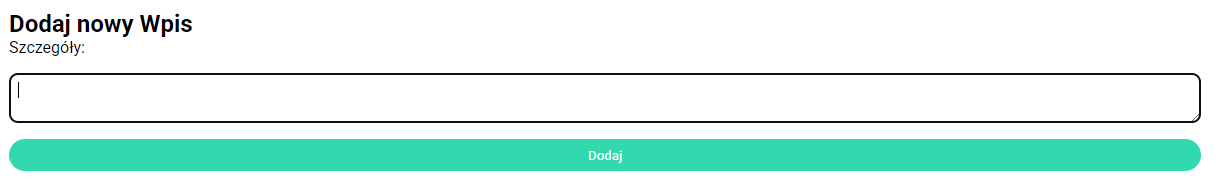
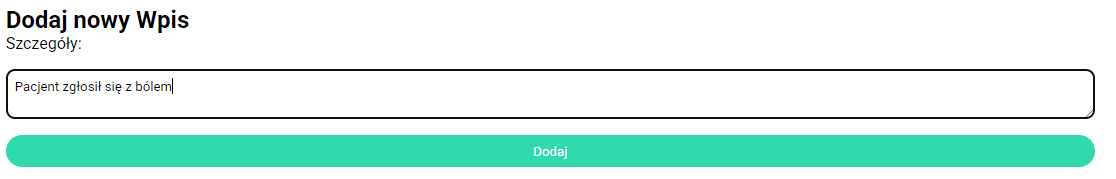
dokumentacjav2

diff --git a/README.md b/README.md
@@ -20,16 +20,17 @@
     - [Użytkownik](#użytkownik-1)
     - [Personel](#personel-1)
   - [Wpisy](#wpisy)
+    - [Użytkownik](#użytkownik-2)
+    - [Personel](#personel-2)
   - [Recepty](#recepty)
+    - [Użytkownik](#użytkownik-3)
+    - [Personel](#personel-3)
   - [Skierowania](#skierowania)
+    - [Użytkownik](#użytkownik-4)
+    - [Personel](#personel-4)
   - [Wyniki badań](#wyniki-badań)
-- [Specyfikacja programu pracownika](#specyfikacja-programu-pracownika)
-  - [Panel główny pracownika](#panel-główny-pracownika)
-  - [Wpisy](#wpisy-1)
-  - [Recepty](#recepty-1)
-    - [Skierowania](#skierowania-1)
-    - [Wyniki badań](#wyniki-badań-1)
-    - [Wpisy pracownik](#wpisy-pracownik)
+    - [Użytkownik](#użytkownik-5)
+    - [Personel](#personel-5)
 
  # Wprowadzenie
 
@@ -107,61 +108,65 @@ Po zalogowaniu użytkownik zobaczy panel główny, w którym znajdują się pola
 Screenshots
 
 ### Personel 
-Po zalogowaniu się pracownik zobaczy taki sam panel główny jak użytkownik. Jedynym wyjątkiem jest możliwość dodawania i usuwania wpisu, recepty lub skierowania.
+Po zalogowaniu się pracownik zobaczy taki sam panel główny jak użytkownik. Jedynym wyjątkiem jest możliwość dodawania i edytowanie wpisu, recepty lub skierowania.
 
 
 Screenshots
 
 ## Wpisy
+### Użytkownik 
 W zakładce "Wpisy" po lewej stronie użytkownik widzi pełną listę wpisów, wraz z ich numerem, datą wystawienia oraz imieniem i nazwiskiem lekarza, który je wystawił. Po kliknięciu na wybrany wpis użytkownik ma pełny podgląd tego wpisu po prawej stronie.
 
 Screenshots
 
+### Personel
+W zakładce "Wpisy" po lewej stronie użytkownik widzi pełną listę wpisów, wraz z ich numerem, datą wystawienia oraz imieniem i nazwiskiem lekarza, który je wystawił. Po kliknięciu na wybrany wpis użytkownik ma pełny podgląd tego wpisu po prawej stronie.
+
+Screenshots
+
+Zakładka "Wpisy" dla pracownika różni się od zakładki użytkownika jedynie tym, że pracownik ma dodatkową możliwość edytowania istniejących wpisów oraz dodawania własnych wpisów.\
+Dodawanie:
+Po kliknięciu przycisku w prawym dolnym rogu ekranu dodaj wpis lekarzowi wyświetli się pole do dodania go \
+![alt text](Screenshots/dodajwpis1.PNG)
+![alt text](Screenshots/dodajwpis.PNG)
+\Komunikat o dodaniu wpisu
+
+Edytowanie
+![alt text](Screenshots/edycjawpisu1.PNG)
+Po kliknięciu przycisku edytuj bedziemy mogli edytować wpis 
+![alt text](Screenshots/edycjawpisu2.PNG)
+Następnie przyciskiem zapisz możemy go zapisać lub anulowac naszą edycje.\
+![alt text](Screenshots/edycjawpisu3.PNG)\
+W zależności od naszego wyboru strona wyświetla komunikat o zapisie edycji naszego wpisu lub o przerwaniu edycji wpisu \
+![alt text](Screenshots/edycjakom1.PNG)
+![alt text](Screenshots/edycjakom2.PNG)
 ## Recepty
+### Użytkownik
 W zakładce "Recepty" po lewej stronie użytkownik widzi pełną listę recept, wraz z ich numerem, datą wystawienia i ważności oraz imieniem i nazwiskiem lekarza, który je wystawił. Po kliknięciu na wybrana receptę użytkownik ma pełny podgląd do recepty po prawej stronie.
 
 Screenshots
+
+### Personel
+W zakładce "Recepty" po lewej stronie użytkownik widzi pełną listę recept, wraz z ich numerem, datą wystawienia i ważności oraz imieniem i nazwiskiem lekarza, który je wystawił. Po kliknięciu na wybrana receptę użytkownik ma pełny podgląd do recepty po prawej stronie.
+
+Screenshtots
 
 ## Skierowania
+### Użytkownik
 W zakładce "Skierowania" po lewej stronie użytkownik widzi pełną listę skierowań, wraz z ich numerem, datą wystawienia oraz imieniem i nazwiskiem lekarza, który je wystawił. Po kliknięciu na wybrane skierowanie użytkownik ma pełny podgląd do jego szczegółów po prawej stronie.
 
 Screenshots
+
+### Personel
+W zakładce "Skierowania" po lewej stronie użytkownik widzi pełną listę skierowań, wraz z ich numerem, datą wystawienia oraz imieniem i nazwiskiem lekarza, który je wystawił. Po kliknięciu na wybrane skierowanie użytkownik ma pełny podgląd do jego szczegółów po prawej stronie.
 
 ## Wyniki badań
+### Użytkownik
 W zakładce "Wyniki badań" po lewej stronie użytkownik widzi pełną liste wyników, wraz z ich numerem, datą wykonania oraz personelu wykonujący badanie. Po kliknięciu w wynik po prawej stronie wyświetlą się szczegóły wyniku.
 
 Screenshots
 
-# Specyfikacja programu pracownika
-
-## Panel główny pracownika
-Po zalogowaniu się pracownik zobaczy taki sam panel główny jak użytkownik. Jedynym wyjątkiem jest możliwość dodawania i usuwania wpisu, recepty lub skierowania.
-
-Screenshots
-
-## Wpisy
-W zakładce "Wpisy" po lewej stronie użytkownik widzi pełną listę wpisów, wraz z ich numerem, datą wystawienia oraz imieniem i nazwiskiem lekarza, który je wystawił. Po kliknięciu na wybrany wpis użytkownik ma pełny podgląd tego wpisu po prawej stronie.
-
-Screenshots
-
-## Recepty
-W zakładce "Recepty" po lewej stronie użytkownik widzi pełną listę recept, wraz z ich numerem, datą wystawienia i ważności oraz imieniem i nazwiskiem lekarza, który je wystawił. Po kliknięciu na wybrana receptę użytkownik ma pełny podgląd do recepty po prawej stronie.
-
-Screenshots
-
-### Skierowania
-W zakładce "Skierowania" po lewej stronie użytkownik widzi pełną listę skierowań, wraz z ich numerem, datą wystawienia oraz imieniem i nazwiskiem lekarza, który je wystawił. Po kliknięciu na wybrane skierowanie użytkownik ma pełny podgląd do jego szczegółów po prawej stronie.
-
-Screenshots
-
-### Wyniki badań
+### Personel
 W zakładce "Wyniki badań" po lewej stronie użytkownik widzi pełną liste wyników, wraz z ich numerem, datą wykonania oraz personelu wykonujący badanie. Po kliknięciu w wynik po prawej stronie wyświetlą się szczegóły wyniku.
 
 Screenshots
-
-### Wpisy pracownik
-Zakładka "Wpisy" dla pracownika różni się od zakładki użytkownika jedynie tym, że pracownik ma dodatkową możliwość edytowania istniejących wpisów oraz dodawania własnych wpisów.
-
-![alt text](Screenshots/Dodajwpis.PNG)
-
-![alt text](Screenshots/Edytujwpis.PNG)
